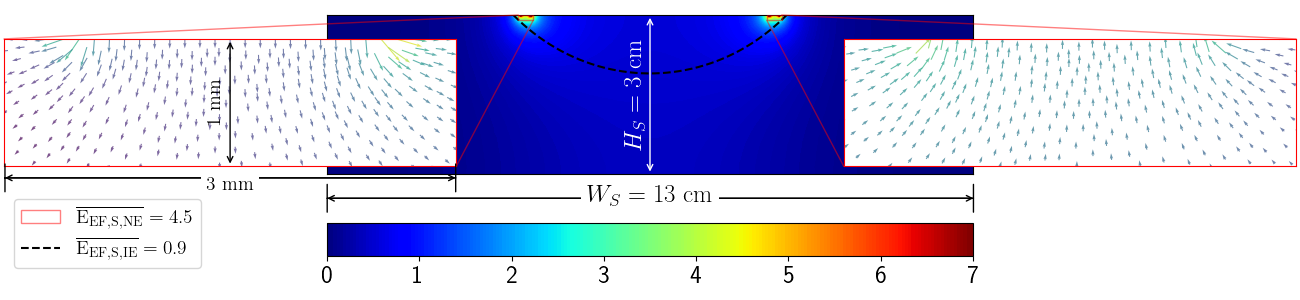
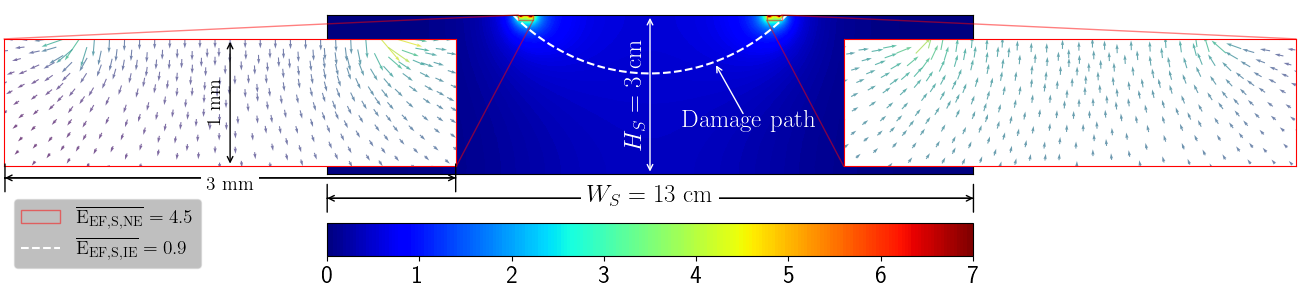
update the efield sample-simulation figure

diff --git a/python_scripts/plot_efield_distribution_sample.py b/python_scripts/plot_efield_distribution_sample.py
@@ -284,10 +284,16 @@ for key in dict_weight:
 
 mean_per_pexelIE = np.mean(np.array(mean_per_pexel))
 
-E_IE = ax1.plot(XX, YY, '--', color="black")
+E_IE = ax1.plot(XX, YY, '--', color="white")
 E_IELabel = "$\mathrm{\\overline{E_{EF,S,IE}}=%3.1f}$"%(mean_per_pexelIE)
 
-plt.legend((E_NE[0], E_IE[0]),[E_NELabel, E_IELabel],bbox_to_anchor=(-0.5,-0.65), loc="lower left", numpoints = 1, prop={"size":fs-4})
+plt.legend((E_NE[0], E_IE[0]),[E_NELabel, E_IELabel],bbox_to_anchor=(-0.5,-0.65),\
+ loc="lower left", numpoints = 1, prop={"size":fs-4}, facecolor='gray', framealpha=0.5)
+
+ax1.annotate("", xy=(7.8, 2.1), xytext=(8.4, 1.1),  arrowprops=dict(arrowstyle='->', color="white"))
+bbox=dict(fc="white", ec="white")
+ax1.text(8.5, 1, "$\\mathrm{Damage~path}$", ha="center", va="center", color='white', fontsize=fs)
+
 
 plt.tight_layout()
 
@@ -296,54 +302,3 @@ plt.savefig(WD+'pore_impact_on_ppgd/figures/sample_efield.png')
 plt.savefig(WD+'pore_impact_on_ppgd/figures/sample_efield.eps')
 
 plt.show()
-
-
-
-
-
-#
-#
-# # Calculate the average enahncement factor at the inter-electrode region
-# x1, x2, y1, y2 = 3.75, 9.25, 2.75, 3
-# dxg, dyg = 0.5, 0.05 # mesh size
-# xg, yg   = np.arange(x1+dxg, x2, dxg), np.arange(y1+dyg, y2, dyg)
-# Xg, Yg   = np.meshgrid(xg,yg)
-#
-#
-# gix = np.vstack([Xg.ravel(), Yg.ravel()])[0] #the coordinates of the x nodes
-# giy = np.vstack([Xg.ravel(), Yg.ravel()])[1] #the coordinates of the y nodes
-#
-# # Define the dxg * dyg boxes at centers gix, giy
-# boxes = []
-# for n in np.arange(len(gix)):
-#         boxes.append([gix[n]-dxg, gix[n]+dxg, giy[n]-dyg, giy[n]+dyg])
-# boxes = np.array(boxes)
-#
-# # Mask the EField indefined values:
-# dict_weight = {}
-# for i in np.arange(len(X)):
-#       for n, coori in enumerate(boxes):
-#             if X[i] >= coori[0] and X[i] <= coori[1] and Y[i] >= coori[2] and Y[i] <= coori[3]:
-#                 if EField[i] >=0.1: #To mask zeros and infinite values
-#                     key="%s"%n
-#                     if key not in dict_weight:
-#                         dict_weight.update({key: [EField[i]]})
-#                     dict_weight[key].append(EField[i])
-#
-# # Get the mean per box:
-# mean_per_pexel = []
-# for key in dict_weight:
-#     mean_per_pexel.append(np.mean(np.array(dict_weight.get(key))))
-#
-# # Get the mean in the near-electrode region.
-# mean_per_pexel = np.mean(np.array(mean_per_pexel))
-#
-# # Label the mean in the near-electrode region
-# E_Inter = ax1.indicate_inset_zoom(axins2, edgecolor="red")
-# E_InterLabel = "$\mathrm{\\overline{E_{EF,S,Int}}=%3.1f}$"%mean_per_pexel
-#
-# # Create a Rectangle patch
-# rect = Rectangle((x1, y1), x2-x1, y2-y1, linewidth=1, edgecolor='r', facecolor='none')
-#
-# # Add the patch to the Axes
-# plt.gca().add_patch(rect)

diff --git a/python_scripts/Granite_DielectricStrength_NumVsExpInoue1999.py b/python_scripts/Granite_DielectricStrength_NumVsExpInoue1999.py
@@ -24,7 +24,6 @@ WD    = os.path.expanduser('~/projects/')
 #      ('loosely dashdotdotted', (0, (3, 10, 1, 10, 1, 10))),
 #      ('densely dashdotdotted', (0, (3, 1, 1, 1, 1, 1)))]
 
-
 # Figure dimensions
 gs  = gridspec.GridSpec(1,1)
 fig = plt.figure(figsize=(12,6))
